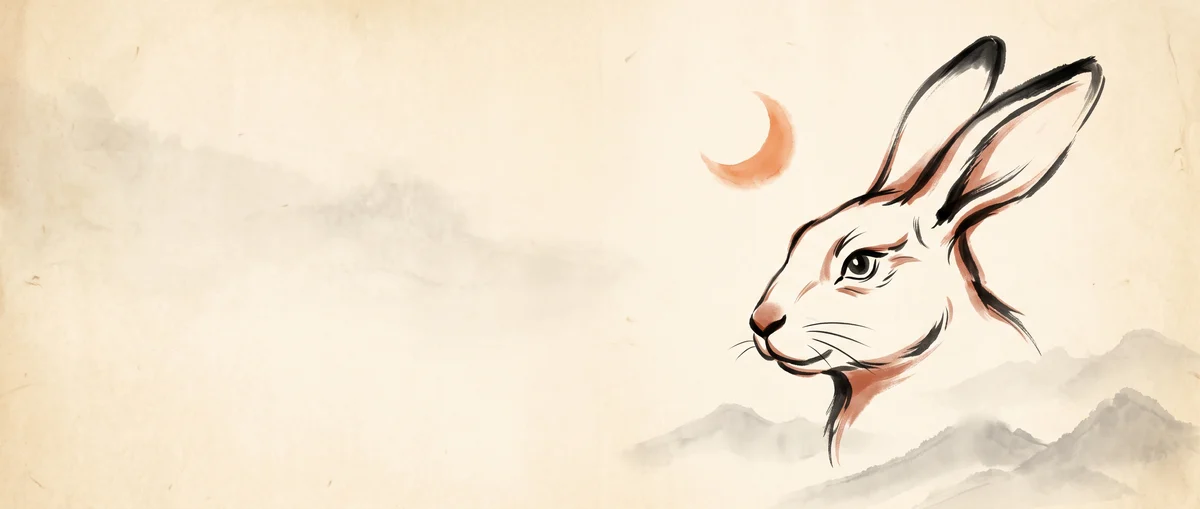
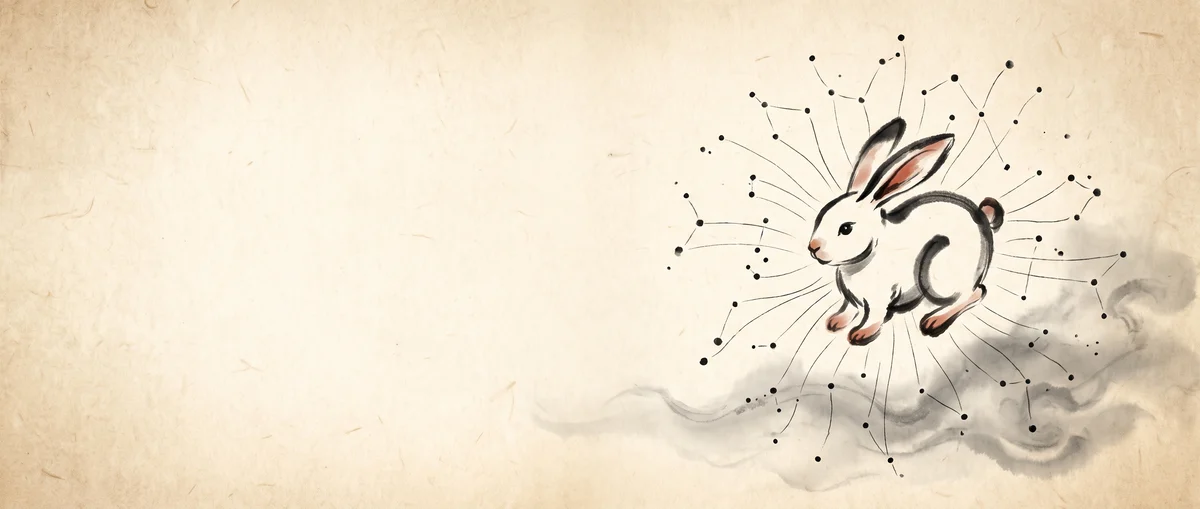
feat(종목): 배너 여섯 장을 수묵화 한 톤으로 맞춘다
사주 배너만 파스텔 3D 였고 사주지도만 수묵화라 두 문법이 섞여 있었다.
여섯 장을 같은 톤으로 다시 뽑았다 — 종이 질감, 먹선, 주홍 강조, 왼쪽 절반
비움.

각 종목이 무엇인지 그림이 말한다:
  사주      토끼와 흐릿한 세로 획 (책력의 기둥)
  타로      부채꼴로 펼친 카드 세 장과 초승달
  궁합      마주 본 두 토끼와 겹친 두 원
  주간·월간  달의 위상이 아치로 흐르는 하늘
  사주지도   토끼를 중심으로 뻗은 관계망
  만세력    펼친 책과 그 옆에 앉은 토끼

글자는 한 자도 넣지 않았다. 첫 사주 배너에서 명식 표를 그렸다가 그 안의
한자가 실제 배열이 아니어서 버린 적이 있다 — 읽을 수 있는 글자를 그리게
하면 틀린 것이 그려진다. 카드 무늬도 상징 대신 추상 획으로 두었다.

타로는 종목 목록 페이지가 없어(바로 뽑기 화면으로 간다) 그 화면 머리에
배너를 얹었다.

Claude-Session: https://claude.ai/code/session_01TSJp8fZuSWjhoCR3aTVfdB

diff --git a/src/lib/genres.ts b/src/lib/genres.ts
@@ -46,18 +46,21 @@ export const GENRES: Genre[] = [
     id: "tarot",
     label: "타로",
     desc: "뽑은 카드를 내 결에 겹쳐",
+    banner: "/assets/genre/tarot-banner.webp",
     href: "/tarot",
   },
   {
     id: "gunghap",
     label: "궁합",
     desc: "두 사람 사이를 읽는다",
+    banner: "/assets/genre/gunghap-banner.webp",
     href: "/genre/gunghap",
   },
   {
     id: "period",
     label: "주간·월간",
     desc: "이번 주와 이번 달의 흐름",
+    banner: "/assets/genre/period-banner.webp",
     href: "/period",
     free: true,
   },
@@ -65,6 +68,7 @@ export const GENRES: Genre[] = [
     id: "map",
     label: "사주지도",
     desc: "내 주변 사람들과의 인연",
+    banner: "/assets/genre/map-banner.webp",
     href: "/guin",
     free: true,
   },
@@ -72,6 +76,7 @@ export const GENRES: Genre[] = [
     id: "manseryeok",
     label: "만세력",
     desc: "내 여덟 글자를 그대로",
+    banner: "/assets/genre/manseryeok-banner.webp",
     href: "/manseryeok",
     free: true,
   },

diff --git a/src/app/tarot/TarotView.tsx b/src/app/tarot/TarotView.tsx
@@ -169,6 +169,12 @@ export default function TarotView() {
   // ── 고르기 ──
   return (
     <main className="container tr" style={{ paddingTop: 32, paddingBottom: 110 }}>
+      {/* 종목 배너 — 목록 페이지가 없는 종목이라 이 화면 머리가 그 자리다 */}
+      <div className="genre-banner">
+        {/* eslint-disable-next-line @next/next/no-img-element */}
+        <img src="/assets/genre/tarot-banner.webp" alt="" loading="lazy" />
+      </div>
+
       <span className="badge">{TAROT_COST}러빗</span>
       <h1 className="tr-h1">무엇을 물어볼까요?</h1>
       <p className="tr-lede">
